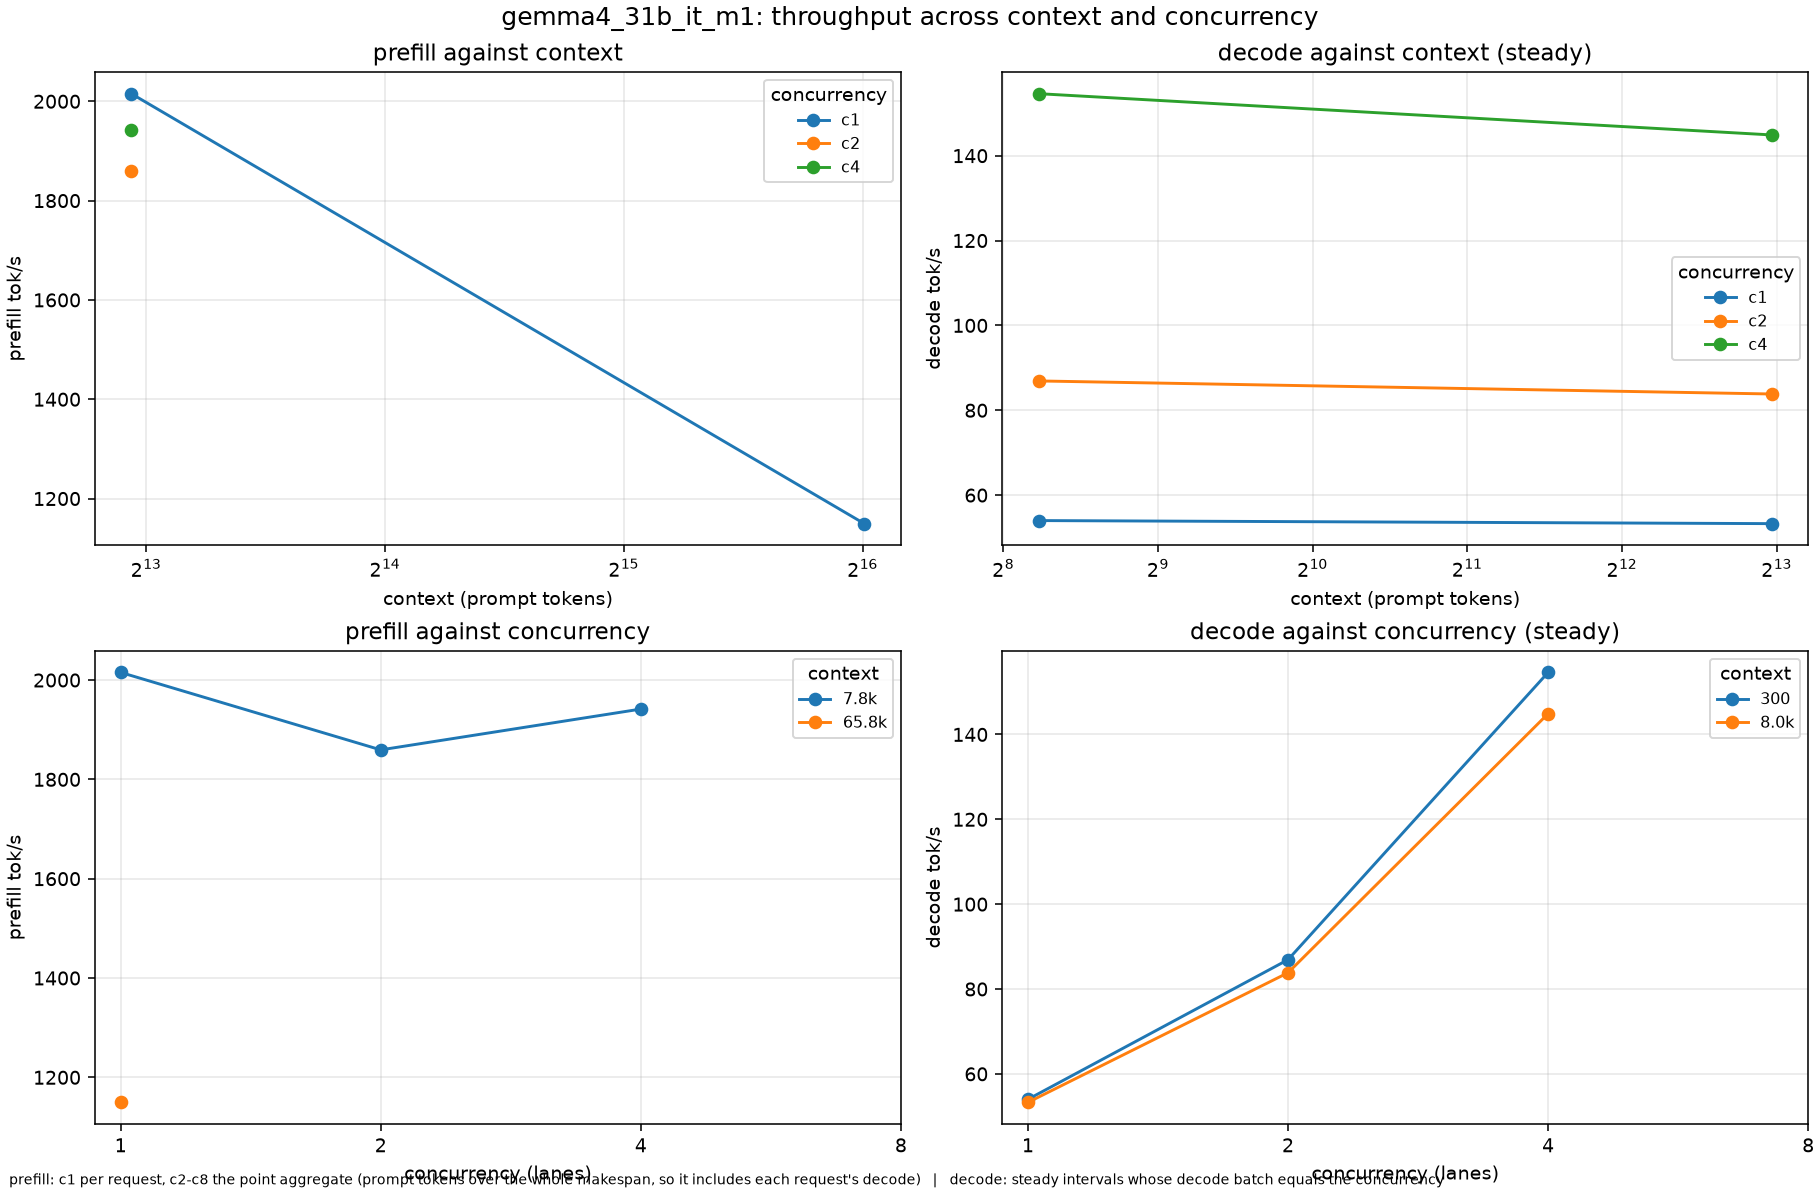
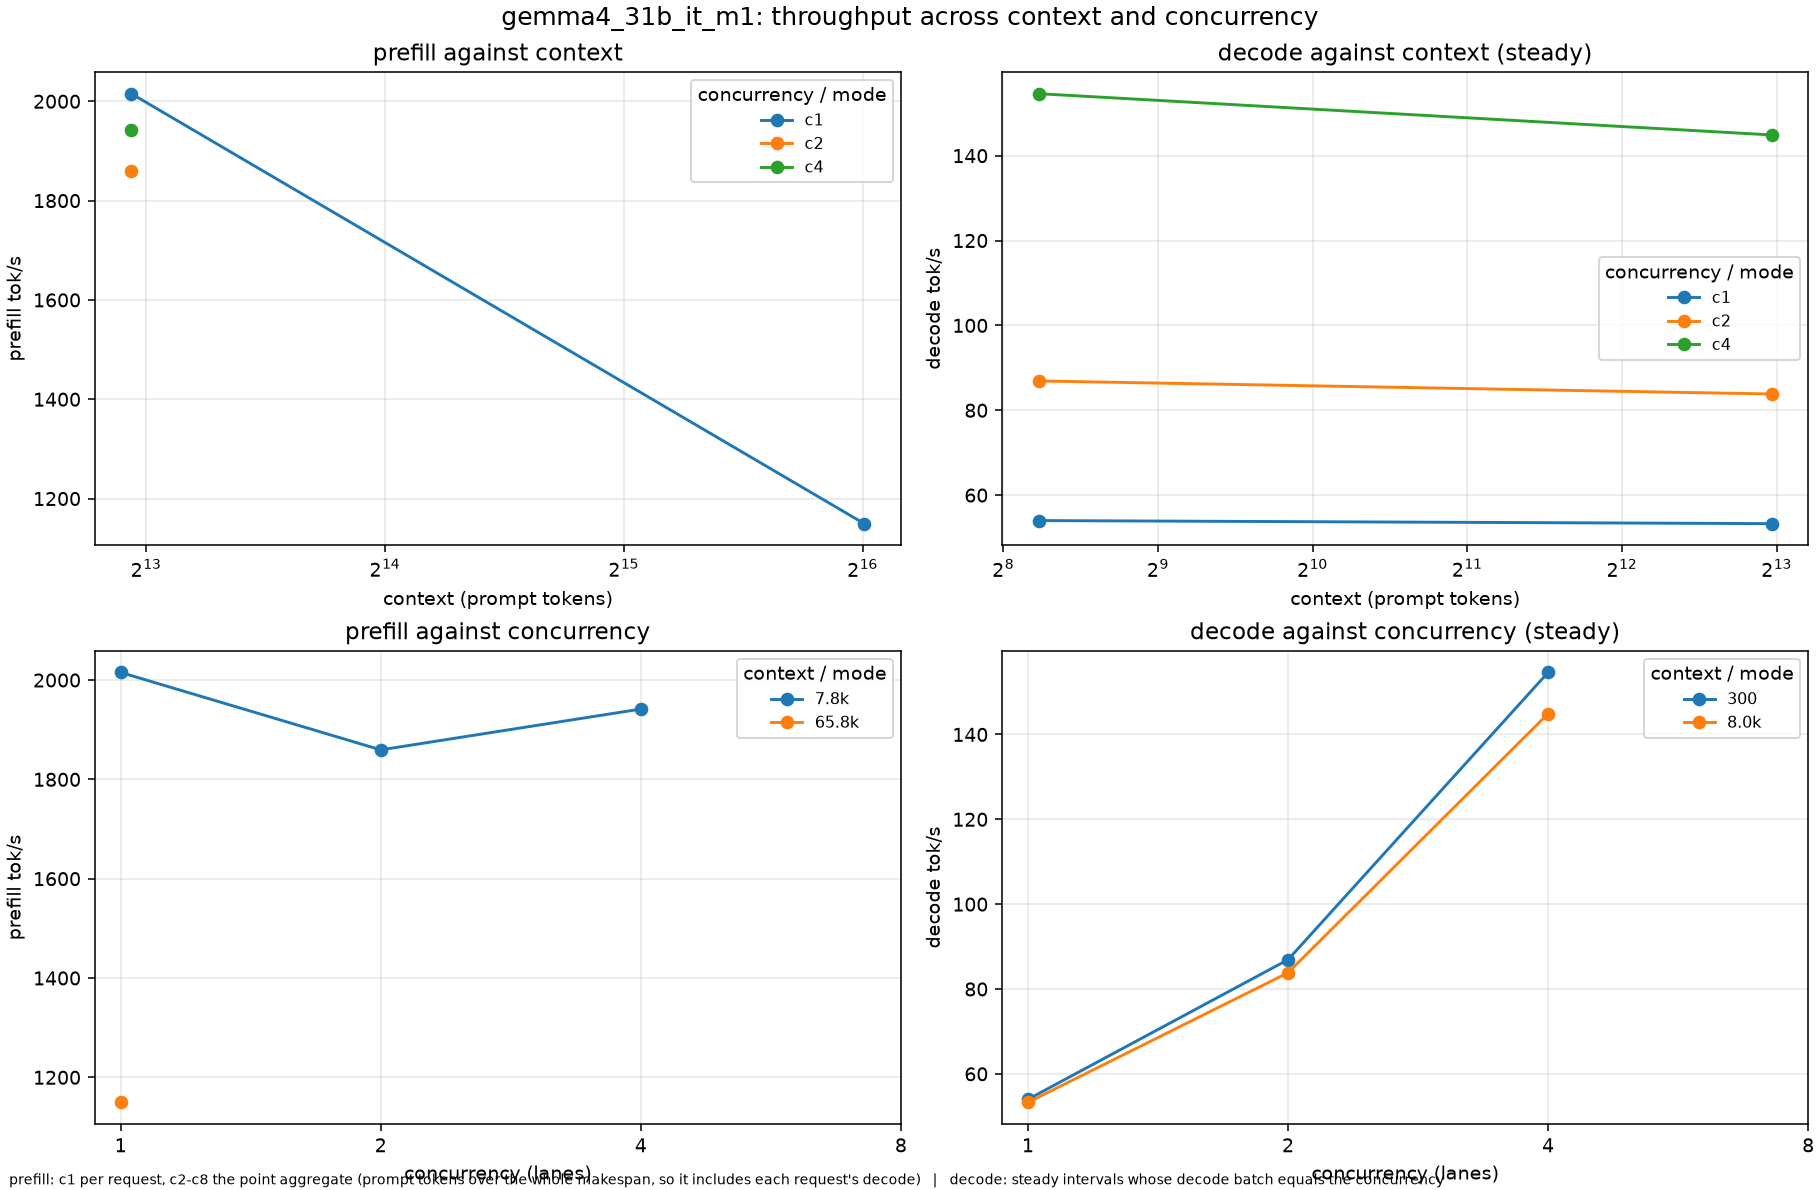
docs(readme): carry MTP in the master charts
The decode panels of every master chart now draw the same-session MTP run as a dashed line labelled with its mode, beside the plain path, so one figure answers both questions. Regenerated the six charts and refreshed screenshots/; docs(readme): the chart note and the MTP detail block say where the dashed lines come from.

diff --git a/tools/bench/plot_master.py b/tools/bench/plot_master.py
@@ -71,41 +71,67 @@ def prefill_series(runs: list[Path], readings: list[dict[str, Any]], model: str)
     return out
 
 
+def decode_series(readings: list[dict[str, Any]]) -> dict[tuple[int, int, str], float]:
+    """Decode rate keyed by (concurrency, context, mode), so a chart can carry MTP beside plain.
+
+    The plain path keeps an empty mode string -- it is the baseline a chart reads against -- and any
+    speculative run keeps its mode name, which is also what makes the line dashed.
+    """
+    out: dict[tuple[int, int, str], float] = {}
+    for reading in readings:
+        if reading.get("suite") != "decode-saturation":
+            continue
+        value = reading.get("decode")
+        if not isinstance(value, (int, float)) or value <= 0:
+            continue
+        mode = reading.get("mode") or ""
+        plain = "" if mode in ("mtp0", "none", "None") else str(mode)
+        out[(reading["concurrency"], reading["context"], plain)] = float(value)
+    return out
+
+
 def human_context(tokens: int) -> str:
     return f"{tokens / 1000:.1f}k" if tokens >= 1000 else str(tokens)
 
 
 def draw(model: str, readings: list[dict[str, Any]], runs: list[Path], out: Path) -> list[Path]:
     prefill = prefill_series(runs, readings, model)
-    decode = series(readings, "decode-saturation", "decode")
+    decode = decode_series(readings)
     if not prefill and not decode:
         return []
 
     fig, axes = plt.subplots(2, 2, figsize=(13, 8.5), constrained_layout=True)
 
     def against_context(axis, data, title, ylabel) -> None:
-        grouped: dict[int, list[tuple[int, float]]] = collections.defaultdict(list)
-        for (concurrency, context), value in data.items():
-            grouped[concurrency].append((context, value))
-        for concurrency in sorted(grouped):
-            points = sorted(grouped[concurrency])
-            axis.plot([p[0] for p in points], [p[1] for p in points], marker="o", label=f"c{concurrency}")
+        grouped: dict[tuple[int, str], list[tuple[int, float]]] = collections.defaultdict(list)
+        for key, value in data.items():
+            concurrency, context = int(key[0]), int(key[1])
+            mode = str(key[2]) if len(key) > 2 else ""
+            grouped[(concurrency, mode)].append((context, value))
+        for (concurrency, mode) in sorted(grouped):
+            points = sorted(grouped[(concurrency, mode)])
+            label = f"c{concurrency}" + (f" {mode}" if mode else "")
+            axis.plot([p[0] for p in points], [p[1] for p in points], marker="o",
+                      linestyle="--" if mode else "-", label=label)
         axis.set_xscale("log", base=2)
         axis.set_xlabel("context (prompt tokens)")
         axis.set_ylabel(ylabel)
         axis.set_title(title)
         axis.grid(True, which="both", alpha=0.3)
         if grouped:
-            axis.legend(title="concurrency", fontsize=8)
+            axis.legend(title="concurrency / mode", fontsize=8)
 
     def against_concurrency(axis, data, title, ylabel) -> None:
-        grouped: dict[int, list[tuple[int, float]]] = collections.defaultdict(list)
-        for (concurrency, context), value in data.items():
-            grouped[context].append((concurrency, value))
-        for context in sorted(grouped):
-            points = sorted(grouped[context])
+        grouped: dict[tuple[int, str], list[tuple[int, float]]] = collections.defaultdict(list)
+        for key, value in data.items():
+            concurrency, context = int(key[0]), int(key[1])
+            mode = str(key[2]) if len(key) > 2 else ""
+            grouped[(context, mode)].append((concurrency, value))
+        for (context, mode) in sorted(grouped):
+            points = sorted(grouped[(context, mode)])
+            label = human_context(context) + (f" {mode}" if mode else "")
             axis.plot([p[0] for p in points], [p[1] for p in points], marker="o",
-                      label=human_context(context))
+                      linestyle="--" if mode else "-", label=label)
         axis.set_xscale("log", base=2)
         axis.set_xticks([1, 2, 4, 8])
         axis.set_xticklabels(["1", "2", "4", "8"])
@@ -114,7 +140,7 @@ def draw(model: str, readings: list[dict[str, Any]], runs: list[Path], out: Path
         axis.set_title(title)
         axis.grid(True, which="both", alpha=0.3)
         if grouped:
-            axis.legend(title="context", fontsize=8)
+            axis.legend(title="context / mode", fontsize=8)
 
     against_context(axes[0][0], prefill, "prefill against context", "prefill tok/s")
     against_context(axes[0][1], decode, "decode against context (steady)", "decode tok/s")

diff --git a/tools/bench/run_bench_sweep.py b/tools/bench/run_bench_sweep.py
@@ -45,7 +45,12 @@ ARTIFACTS: tuple[tuple[str, str], ...] = (
     ("qwen3_6_35b_a3b_nvfp4", "models/qwen3_6_35b_a3b_nvfp4.ninfer"),
     ("gemma4_31b_it_m1", "models/gemma4_31b_it_m1.ninfer"),
     ("gemma4_26b_a4b_qat", "out/gemma4_26b_a4b_qat.ninfer"),
+    ("qwen3.8-flash-next", "models/qwen3.8-flash-next/qwen3_8_flash_next_nvfp4.ninfer"),
 )
+
+# Models that take `--kv-capacity auto`: an explicit capacity would take their KV headroom out of a
+# device expert cache that is on their critical path, which costs far more than the window is worth.
+AUTO_CAPACITY: frozenset[str] = frozenset({"qwen3.8-flash-next"})
 
 # Tokens of KV the card holds across all lanes. Every lane reserves a *full* window --
 # gemma_engine_options forces kv_capacity = max_context and Program::device_bytes sizes the KV per
@@ -128,9 +133,10 @@ def command(campaign: Campaign, args) -> list[str]:
         "--kv-dtype",
         args.kv_dtype,
         # Gemma forces an explicit capacity of max_context and reports it as explicit; `auto` makes
-        # the runner's engine-block check disagree with it, so every campaign states it.
+        # the runner's engine-block check disagree with it, so those campaigns state it. A model in
+        # AUTO_CAPACITY wants `auto` instead; see the constant.
         "--kv-capacity",
-        str(campaign.context),
+        "auto" if campaign.model in AUTO_CAPACITY else str(campaign.context),
         "--max-context",
         str(campaign.context),
         "--prefill-chunk",

diff --git a/README.md b/README.md
@@ -31,7 +31,8 @@ One figure per model, drawn by [`tools/bench/plot_master.py`](tools/bench/plot_m
 in `profiles/bench/all_models/`. Each has four panels: prefill and decode against context (a line per
 concurrency) and the same two against concurrency (a line per context). Six models have one;
 Qwen3.6-27B is quoted under [serving throughput](#serving-throughput) instead, because its campaign
-was run separately and is not in that root.
+was run separately and is not in that root. The decode panels carry the same-session MTP run as a
+dashed line labelled with its mode, so plain and speculative decode sit in one chart.
 
 Prefill is the per-request rate at c1 and the point aggregate at c2–c8 (prompt tokens over the whole
 makespan, so it includes each request's decode); decode is the steady rate over complete intervals
@@ -67,7 +68,8 @@ reach the contexts its KV window fits — 262,144 tokens at one lane, 32,768 at 
 <details>
 <summary>MTP against plain decode, same session, both modes in one invocation</summary>
 
-Decode at a ~300-token context, gain at two / four / eight lanes. Speculation pays where decode is
+The runs the dashed lines in the decode panels come from, in detail: decode at a ~300-token context,
+gain at two / four / eight lanes. Speculation pays where decode is
 weight-bound and stops paying once the engine already has a full batch: the dense 27B models gain
 about 2x at every concurrency, while on Gemma 4 26B-A4B at four lanes MTP is *slower* than plain
 decode (606 → 409 tok/s) because the draft passes cost more than the tokens they commit.
